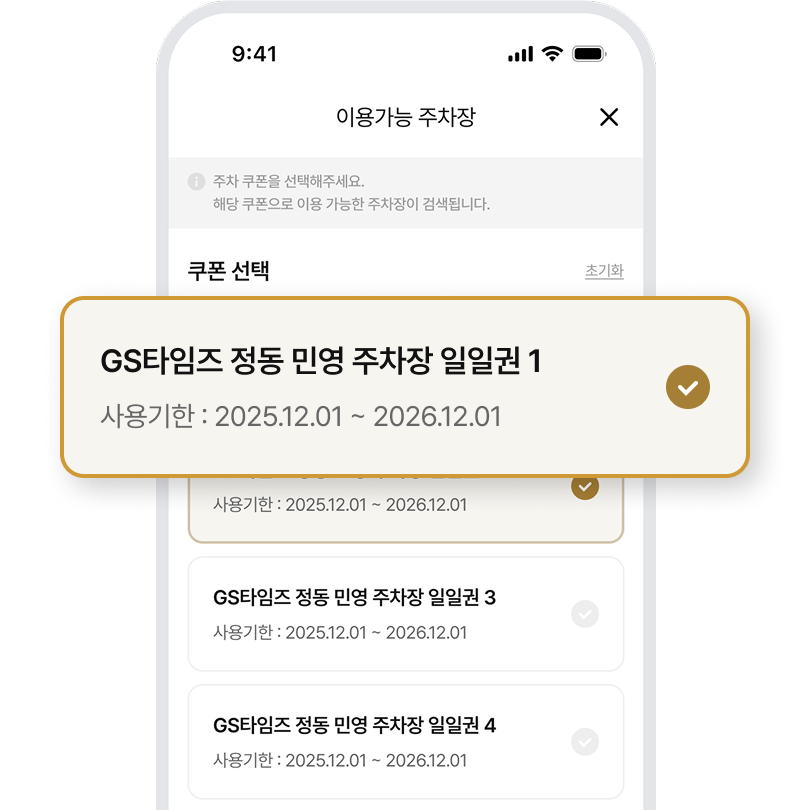
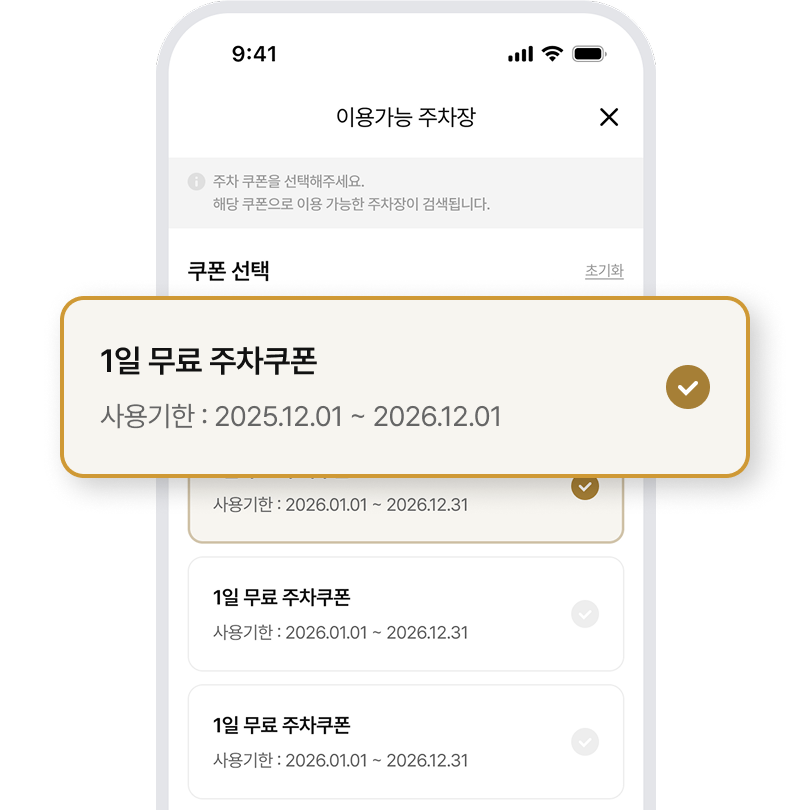
style: 헤더 fixed 상태 및 세부 스타일 개선
스크롤 시 헤더 배경/로고/텍스트 색상 전환(블러 10px), 버튼/푸터 폰트 웨이트 조정,
스크롤 인디케이터 애니메이션 등 반영. 변경된 가이드 이미지 재업로드.

diff --git a/css/style.css b/css/style.css
@@ -62,7 +62,7 @@ img {
   gap: 10px;
   padding: 12px 40px;
   border-radius: 8px;
-  font-weight: 500;
+  font-weight: 400;
   font-size: 18px;
   letter-spacing: -0.36px;
   line-height: 1.6;
@@ -104,15 +104,17 @@ img {
   left: 0;
   width: 100%;
   z-index: 30;
-  padding: 0 120px;
+  padding: 40px 120px;
   background: transparent;
-  transition: background-color 0.25s ease, box-shadow 0.25s ease;
+  transition: background-color 0.3s ease, padding 0.3s ease, backdrop-filter 0.3s ease;
 }
 
 .header.is-fixed {
   position: fixed;
-  background: var(--color-footer);
-  box-shadow: 0 4px 16px rgba(0, 0, 0, 0.2);
+  padding: 0 120px;
+  background: rgba(255, 255, 255, 0.7);
+  backdrop-filter: blur(10px);
+  -webkit-backdrop-filter: blur(10px);
 }
 
 .header__inner {
@@ -123,9 +125,31 @@ img {
   padding: 0 40px;
 }
 
-.logo img {
+.logo {
+  position: relative;
+  display: block;
   width: 176px;
   height: 18px;
+}
+
+.logo__img {
+  position: absolute;
+  inset: 0;
+  width: 100%;
+  height: 100%;
+  transition: opacity 0.3s ease;
+}
+
+.logo__img--dark {
+  opacity: 0;
+}
+
+.header.is-fixed .logo__img--light {
+  opacity: 0;
+}
+
+.header.is-fixed .logo__img--dark {
+  opacity: 1;
 }
 
 .gnb {
@@ -145,16 +169,45 @@ img {
   letter-spacing: -0.4px;
   line-height: 1.5;
   color: rgba(255, 255, 255, 0.7);
-  transition: color 0.2s ease;
+  transition: color 0.3s ease;
 }
 
 .gnb__item:hover {
   color: var(--color-white);
 }
 
-.gnb__item-icon {
+.header.is-fixed .gnb__item {
+  color: rgba(17, 17, 17, 0.7);
+}
+
+.header.is-fixed .gnb__item:hover {
+  color: var(--color-text-111);
+}
+
+.gnb__item-icon-wrap {
+  position: relative;
   width: 24px;
   height: 24px;
+}
+
+.gnb__item-icon {
+  position: absolute;
+  inset: 0;
+  width: 100%;
+  height: 100%;
+  transition: opacity 0.3s ease;
+}
+
+.gnb__item-icon--dark {
+  opacity: 0;
+}
+
+.header.is-fixed .gnb__item-icon--light {
+  opacity: 0;
+}
+
+.header.is-fixed .gnb__item-icon--dark {
+  opacity: 1;
 }
 
 .gnb__item-wrap {
@@ -164,6 +217,10 @@ img {
 
 .gnb__item-wrap:hover .gnb__item {
   color: var(--color-white);
+}
+
+.header.is-fixed .gnb__item-wrap:hover .gnb__item {
+  color: var(--color-text-111);
 }
 
 .gnb__dropdown {
@@ -336,7 +393,7 @@ img {
   width: 1px;
   height: 0;
   background: var(--color-white);
-  animation: scrollLineGrow 1.8s ease-in-out infinite;
+  animation: scrollLineGrow 2.4s ease-in-out infinite;
 }
 
 @keyframes scrollLineGrow {
@@ -530,6 +587,7 @@ img {
   gap: 20px;
   flex: 1 0 0;
   min-width: 0;
+  padding: 20px 0;
 }
 
 .parking-notice {
@@ -679,7 +737,7 @@ img {
 
 .footer__name {
   color: var(--color-white);
-  font-weight: 700;
+  font-weight: 600;
   font-size: 16px;
   letter-spacing: -0.32px;
   line-height: 1.6;
@@ -698,7 +756,7 @@ img {
 
 .footer__info-label {
   color: var(--color-text-777);
-  font-weight: 500;
+  font-weight: 400;
   font-size: 14px;
   letter-spacing: -0.28px;
   line-height: 1.6;
@@ -712,7 +770,7 @@ img {
 
 .footer__info-value {
   color: var(--color-text-aaa);
-  font-weight: 500;
+  font-weight: 400;
   font-size: 14px;
   letter-spacing: -0.28px;
   line-height: 1.6;
@@ -720,7 +778,7 @@ img {
 
 .footer__copyright {
   color: #555555;
-  font-weight: 500;
+  font-weight: 400;
   font-size: 14px;
   letter-spacing: -0.28px;
   line-height: 1.6;

diff --git a/index.html b/index.html
@@ -22,14 +22,18 @@
       <header class="header">
         <div class="header__inner">
           <a href="#" class="logo">
-            <img src="image/logo-pcm-white.svg" alt="PCM">
+            <img src="image/logo-pcm-white.svg" alt="PCM" class="logo__img logo__img--light">
+            <img src="image/logo-pcm-black.svg" alt="PCM" class="logo__img logo__img--dark">
           </a>
           <nav class="gnb">
             <a href="#" class="gnb__item">회사소개</a>
             <div class="gnb__item-wrap">
               <a href="#" class="gnb__item gnb__item--sub">
                 서비스소개
-                <img src="image/ic-down-white.svg" alt="" class="gnb__item-icon">
+                <span class="gnb__item-icon-wrap">
+                  <img src="image/ic-down-white.svg" alt="" class="gnb__item-icon gnb__item-icon--light">
+                  <img src="image/ic-down-black.svg" alt="" class="gnb__item-icon gnb__item-icon--dark">
+                </span>
               </a>
               <div class="gnb__dropdown">
                 <a href="#" class="gnb__dropdown-item">프리미엄 호텔 통합 상품권</a>
